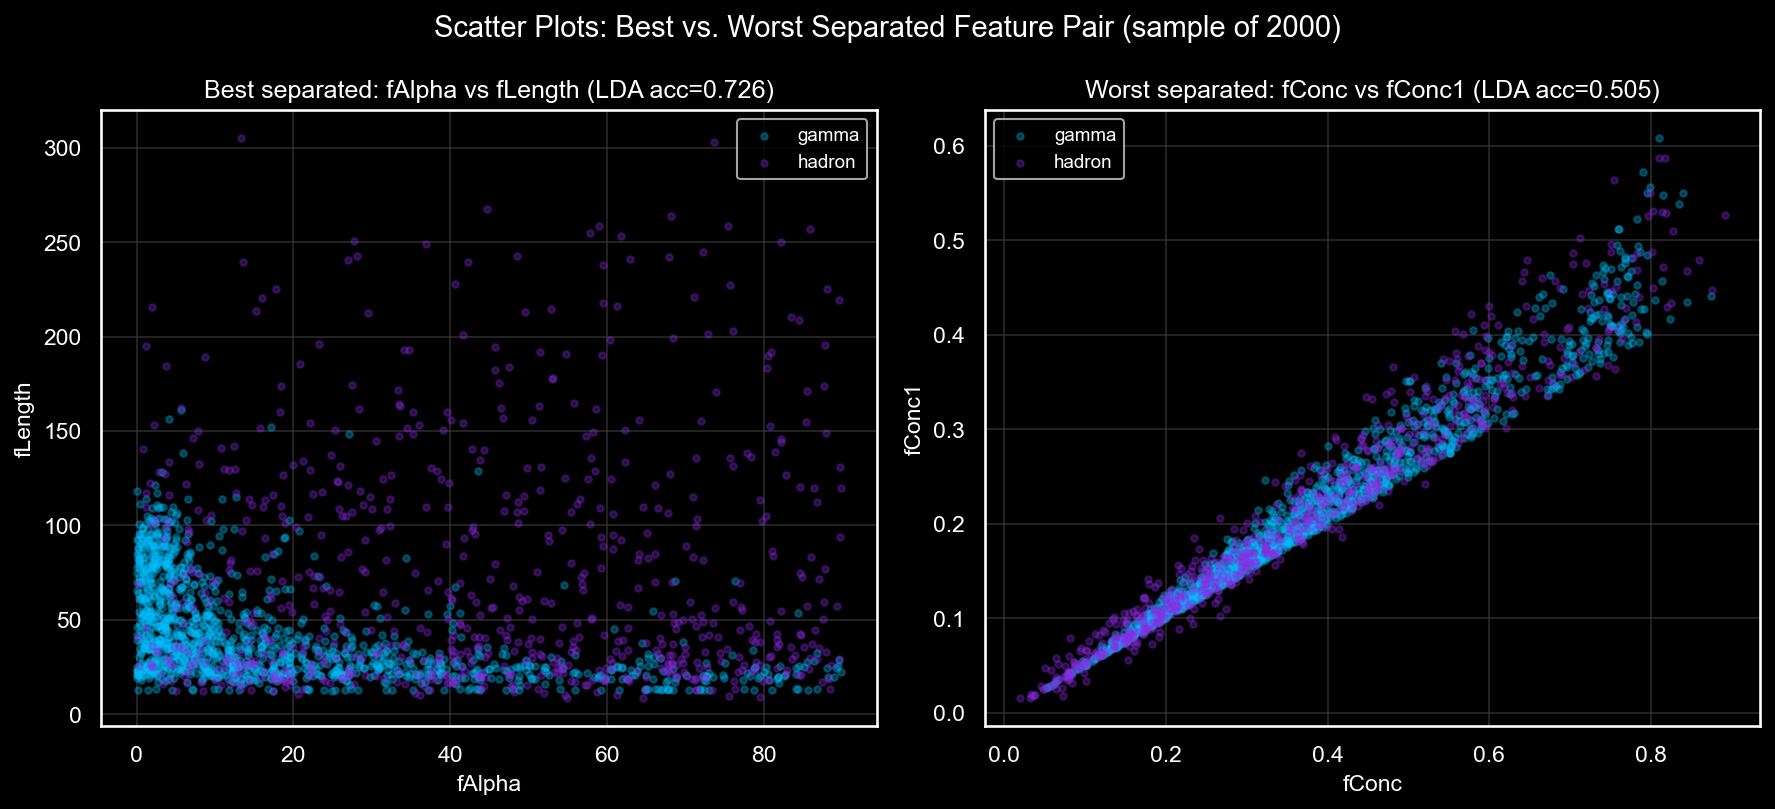
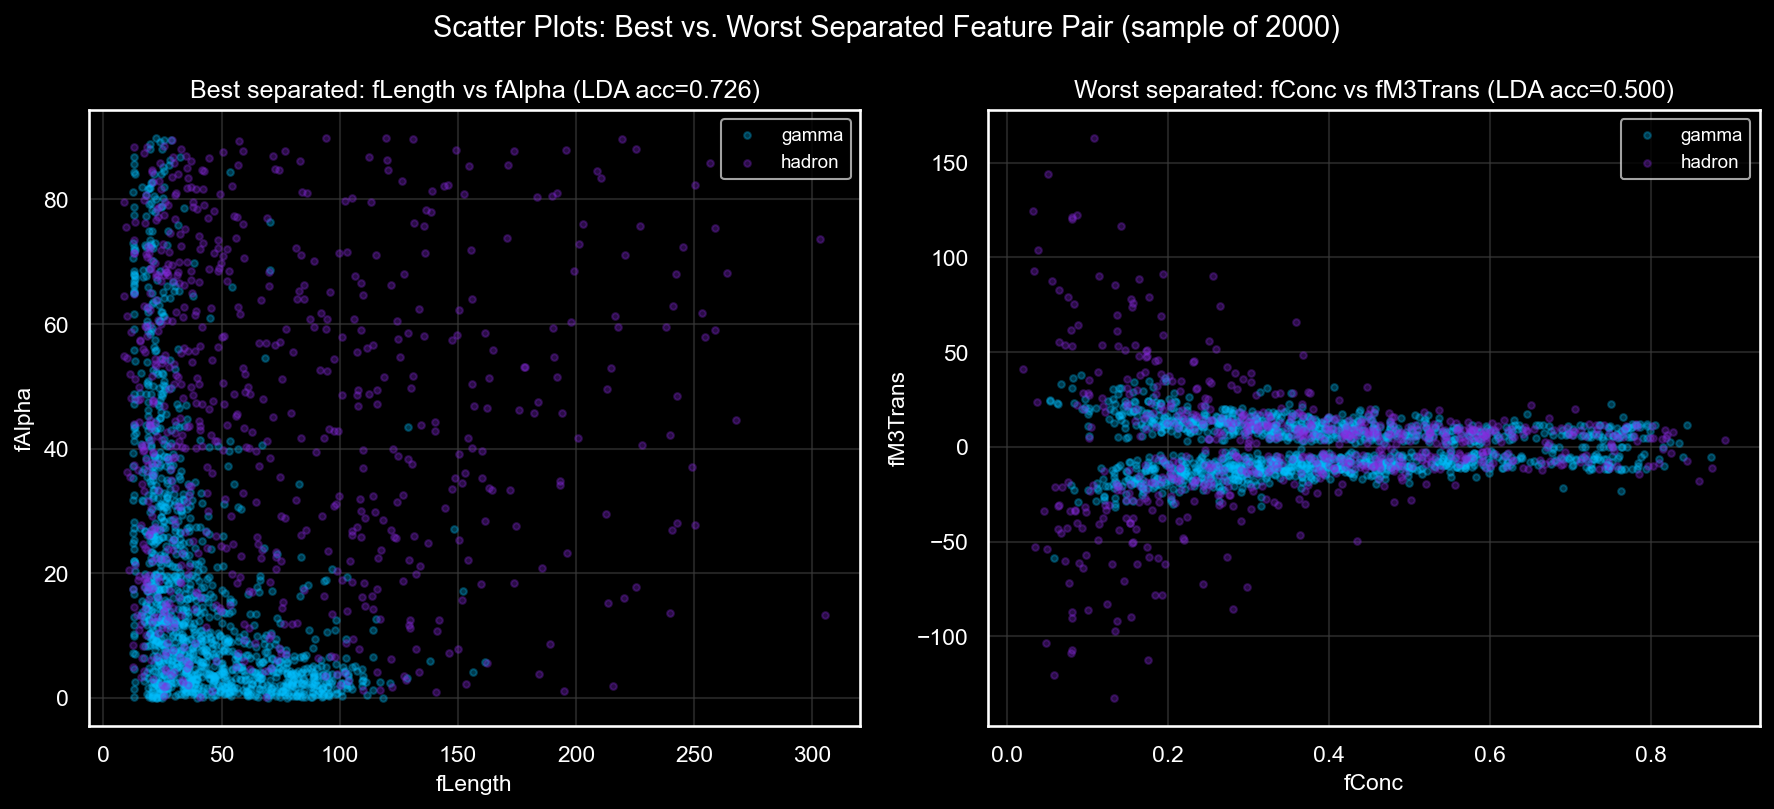
updated scatter plots for better results

diff --git a/01_eda.py b/01_eda.py
@@ -276,15 +276,12 @@ best and worst pair."""
 
 from sklearn.discriminant_analysis import LinearDiscriminantAnalysis
 from sklearn.model_selection import cross_val_score, StratifiedKFold
+from itertools import combinations  # ADDED
 
-pairs_to_plot = [
-    ("fAlpha", "fLength"),
-    ("fAlpha", "fWidth"),
-    ("fAlpha", "fSize"),
-    ("fWidth", "fLength"),
-    ("fConc", "fSize"),
-    ("fConc", "fConc1"),
-]
+# CHANGED: was a hand-picked list of 6 pairs; now every possible pair of the
+# 10 features, so best/worst are chosen from all C(10,2)=45 combinations
+# instead of only the ones we guessed might be interesting.
+pairs_to_plot = list(combinations(feature_cols, 2))  # CHANGED
 
 cv_strategy_eda = StratifiedKFold(n_splits=5, shuffle=True, random_state=42)
 
